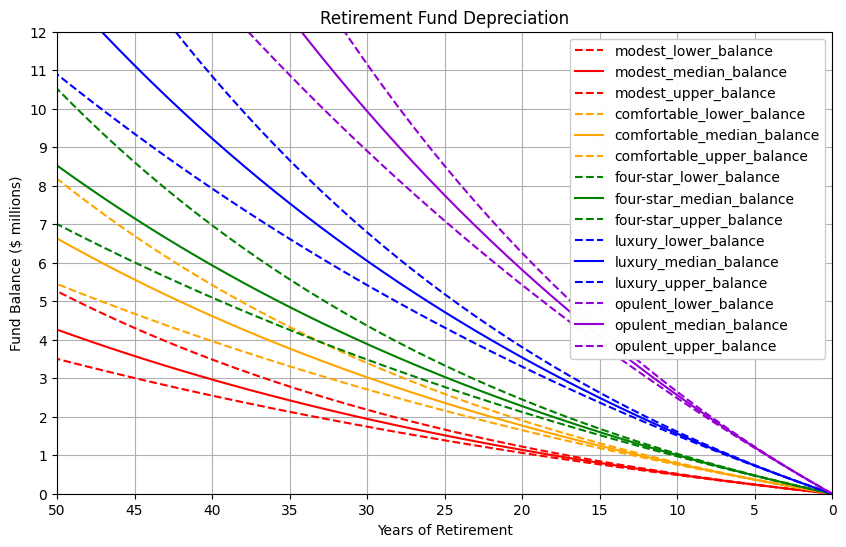
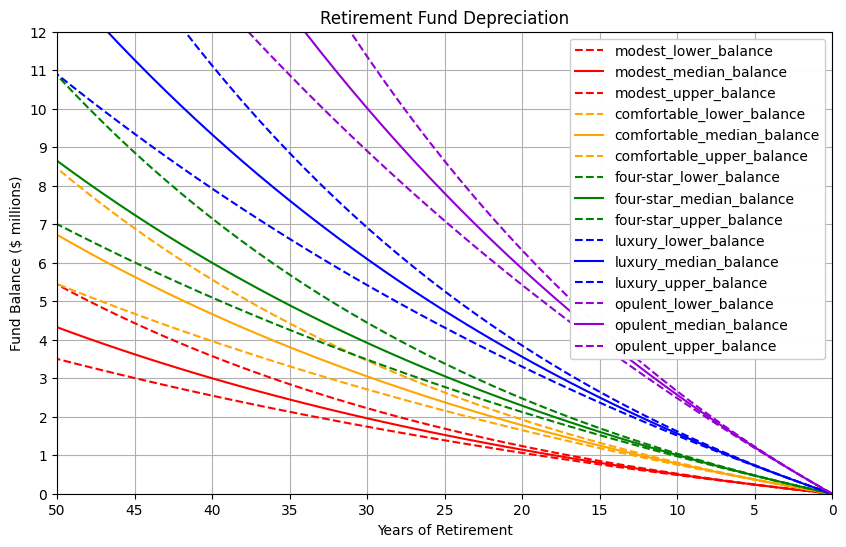
Apply automatic changes

diff --git a/pages/tsla-yoy.md b/pages/tsla-yoy.md
@@ -199,19 +199,19 @@
     
 
 
-    /tmp/ipykernel_1957/1678989774.py:10: FutureWarning: DataFrame.applymap has been deprecated. Use DataFrame.map instead.
+    /tmp/ipykernel_1983/1678989774.py:10: FutureWarning: DataFrame.applymap has been deprecated. Use DataFrame.map instead.
       dfTargets = dfTargets.applymap(lambda x: x.strip() if isinstance(x, str) else x)
 
 
-    /tmp/ipykernel_1957/3110887510.py:11: FutureWarning: The default fill_method='pad' in Series.pct_change is deprecated and will be removed in a future version. Either fill in any non-leading NA values prior to calling pct_change or specify 'fill_method=None' to not fill NA values.
+    /tmp/ipykernel_1983/3110887510.py:11: FutureWarning: The default fill_method='pad' in Series.pct_change is deprecated and will be removed in a future version. Either fill in any non-leading NA values prior to calling pct_change or specify 'fill_method=None' to not fill NA values.
       subgroup['BearChange'] = subgroup['Bear'].pct_change() * 100 # change since previous row
-    /tmp/ipykernel_1957/3110887510.py:11: FutureWarning: The default fill_method='pad' in Series.pct_change is deprecated and will be removed in a future version. Either fill in any non-leading NA values prior to calling pct_change or specify 'fill_method=None' to not fill NA values.
+    /tmp/ipykernel_1983/3110887510.py:11: FutureWarning: The default fill_method='pad' in Series.pct_change is deprecated and will be removed in a future version. Either fill in any non-leading NA values prior to calling pct_change or specify 'fill_method=None' to not fill NA values.
       subgroup['BearChange'] = subgroup['Bear'].pct_change() * 100 # change since previous row
-    /tmp/ipykernel_1957/3110887510.py:11: FutureWarning: The default fill_method='pad' in Series.pct_change is deprecated and will be removed in a future version. Either fill in any non-leading NA values prior to calling pct_change or specify 'fill_method=None' to not fill NA values.
+    /tmp/ipykernel_1983/3110887510.py:11: FutureWarning: The default fill_method='pad' in Series.pct_change is deprecated and will be removed in a future version. Either fill in any non-leading NA values prior to calling pct_change or specify 'fill_method=None' to not fill NA values.
       subgroup['BearChange'] = subgroup['Bear'].pct_change() * 100 # change since previous row
-    /tmp/ipykernel_1957/3110887510.py:10: FutureWarning: The default fill_method='pad' in Series.pct_change is deprecated and will be removed in a future version. Either fill in any non-leading NA values prior to calling pct_change or specify 'fill_method=None' to not fill NA values.
+    /tmp/ipykernel_1983/3110887510.py:10: FutureWarning: The default fill_method='pad' in Series.pct_change is deprecated and will be removed in a future version. Either fill in any non-leading NA values prior to calling pct_change or specify 'fill_method=None' to not fill NA values.
       subgroup['BaseChange'] = subgroup['Base'].pct_change() * 100 # change since previous row
-    /tmp/ipykernel_1957/3110887510.py:11: FutureWarning: The default fill_method='pad' in Series.pct_change is deprecated and will be removed in a future version. Either fill in any non-leading NA values prior to calling pct_change or specify 'fill_method=None' to not fill NA values.
+    /tmp/ipykernel_1983/3110887510.py:11: FutureWarning: The default fill_method='pad' in Series.pct_change is deprecated and will be removed in a future version. Either fill in any non-leading NA values prior to calling pct_change or specify 'fill_method=None' to not fill NA values.
       subgroup['BearChange'] = subgroup['Bear'].pct_change() * 100 # change since previous row
 
 
@@ -386,13 +386,13 @@
 
 
 
-    /tmp/ipykernel_1957/3440364386.py:58: SettingWithCopyWarning: 
+    /tmp/ipykernel_1983/3440364386.py:58: SettingWithCopyWarning: 
     A value is trying to be set on a copy of a slice from a DataFrame.
     Try using .loc[row_indexer,col_indexer] = value instead
     
     See the caveats in the documentation: https://pandas.pydata.org/pandas-docs/stable/user_guide/indexing.html#returning-a-view-versus-a-copy
       rolling_forecast['BearChange'] = rolling_forecast['Bear'].pct_change() * 100 # change since previous row
-    /tmp/ipykernel_1957/3440364386.py:61: SettingWithCopyWarning: 
+    /tmp/ipykernel_1983/3440364386.py:61: SettingWithCopyWarning: 
     A value is trying to be set on a copy of a slice from a DataFrame.
     Try using .loc[row_indexer,col_indexer] = value instead
     

diff --git a/pages/retirement.md b/pages/retirement.md
@@ -132,16 +132,16 @@ Lets start a bear case with a retirement fund yield or appreciation of 10.0% per
 
     | Years | Lower | Median | Upper |
     |-------|-----:|-----:|-----:|
-    | 1     | 5.85 | 6.50 | 7.20 |
-    | 10    | 1.50 | 1.90 | 3.00 |
-    | 30    | 1.70 | 2.40 | 3.12 |
+    | 1     | 5.08 | 5.70 | 6.25 |
+    | 10    | 1.50 | 1.90 | 3.12 |
+    | 30    | 1.70 | 2.45 | 3.23 |
     
 
 
 
 
 
-    0.024
+    0.0245
 
 
 
@@ -201,16 +201,16 @@ Lets start a bear case with a retirement fund yield or appreciation of 10.0% per
       <td>0</td>
       <td>0.000000</td>
       <td>-0.000000</td>
-      <td>0.00000</td>
+      <td>0.000000</td>
       <td>...</td>
-      <td>0.00000</td>
-      <td>-0.00000</td>
+      <td>0.000000</td>
+      <td>-0.000000</td>
       <td>0.000000</td>
       <td>-0.000000</td>
       <td>0.00000</td>
       <td>-0.00000</td>
-      <td>0.00000</td>
-      <td>-0.00000</td>
+      <td>0.000000</td>
+      <td>-0.000000</td>
       <td>0.000000</td>
       <td>-0.000000</td>
     </tr>
@@ -225,16 +225,16 @@ Lets start a bear case with a retirement fund yield or appreciation of 10.0% per
       <td>230000</td>
       <td>-45000.000000</td>
       <td>45000.000000</td>
-      <td>-45000.00000</td>
+      <td>-45000.000000</td>
       <td>...</td>
-      <td>-140000.00000</td>
-      <td>140000.00000</td>
+      <td>-140000.000000</td>
+      <td>140000.000000</td>
       <td>-140000.000000</td>
       <td>140000.000000</td>
       <td>-230000.00000</td>
       <td>230000.00000</td>
-      <td>-230000.00000</td>
-      <td>230000.00000</td>
+      <td>-230000.000000</td>
+      <td>230000.000000</td>
       <td>-230000.000000</td>
       <td>230000.000000</td>
     </tr>
@@ -249,18 +249,18 @@ Lets start a bear case with a retirement fund yield or appreciation of 10.0% per
       <td>460000</td>
       <td>-45765.000000</td>
       <td>90765.000000</td>
-      <td>-46080.00000</td>
+      <td>-46102.500000</td>
       <td>...</td>
-      <td>-143360.00000</td>
-      <td>283360.00000</td>
-      <td>-144368.000000</td>
-      <td>284368.000000</td>
+      <td>-143430.000000</td>
+      <td>283430.000000</td>
+      <td>-144522.000000</td>
+      <td>284522.000000</td>
       <td>-233910.00000</td>
       <td>463910.00000</td>
-      <td>-235520.00000</td>
-      <td>465520.00000</td>
-      <td>-237176.000000</td>
-      <td>467176.000000</td>
+      <td>-235635.000000</td>
+      <td>465635.000000</td>
+      <td>-237429.000000</td>
+      <td>467429.000000</td>
     </tr>
     <tr>
       <th>3</th>
@@ -273,18 +273,18 @@ Lets start a bear case with a retirement fund yield or appreciation of 10.0% per
       <td>690000</td>
       <td>-46543.005000</td>
       <td>137308.005000</td>
-      <td>-47185.92000</td>
+      <td>-47232.011250</td>
       <td>...</td>
-      <td>-146800.64000</td>
-      <td>430160.64000</td>
-      <td>-148872.281600</td>
-      <td>433240.281600</td>
+      <td>-146944.035000</td>
+      <td>430374.035000</td>
+      <td>-149190.060600</td>
+      <td>433712.060600</td>
       <td>-237886.47000</td>
       <td>701796.47000</td>
-      <td>-241172.48000</td>
-      <td>706692.48000</td>
-      <td>-244575.891200</td>
-      <td>711751.891200</td>
+      <td>-241408.057500</td>
+      <td>707043.057500</td>
+      <td>-245097.956700</td>
+      <td>712526.956700</td>
     </tr>
     <tr>
       <th>4</th>
@@ -297,18 +297,18 @@ Lets start a bear case with a retirement fund yield or appreciation of 10.0% per
       <td>920000</td>
       <td>-47334.236085</td>
       <td>184642.241085</td>
-      <td>-48318.38208</td>
+      <td>-48389.195526</td>
       <td>...</td>
-      <td>-150323.85536</td>
-      <td>580484.49536</td>
-      <td>-153517.096786</td>
-      <td>586757.378386</td>
+      <td>-150544.163857</td>
+      <td>580918.198857</td>
+      <td>-154008.899557</td>
+      <td>587720.960157</td>
       <td>-241930.53999</td>
       <td>943727.00999</td>
-      <td>-246960.61952</td>
-      <td>953653.09952</td>
-      <td>-252206.659005</td>
-      <td>963958.550205</td>
+      <td>-247322.554909</td>
+      <td>954365.612409</td>
+      <td>-253014.620701</td>
+      <td>965541.577401</td>
     </tr>
   </tbody>
 </table>

diff --git a/pages/tsla-prices.md b/pages/tsla-prices.md
@@ -24,7 +24,7 @@ Over the last 10 years the median change is 19.03%:
     
 
 
-    /tmp/ipykernel_1949/113867765.py:10: FutureWarning: DataFrame.applymap has been deprecated. Use DataFrame.map instead.
+    /tmp/ipykernel_1975/113867765.py:10: FutureWarning: DataFrame.applymap has been deprecated. Use DataFrame.map instead.
       dfTargets = dfTargets.applymap(lambda x: x.strip() if isinstance(x, str) else x)
 
 
